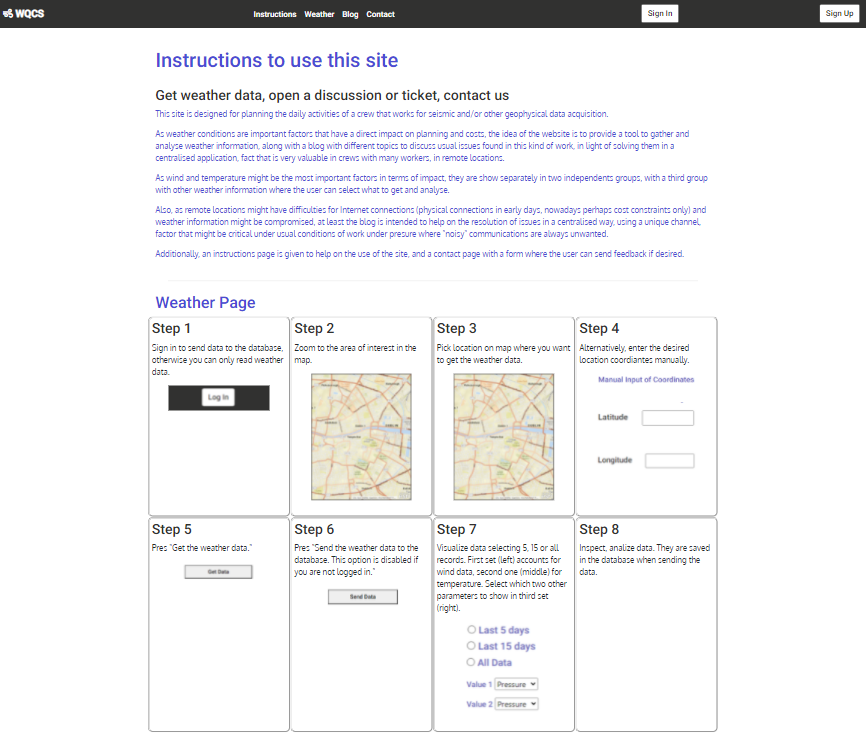
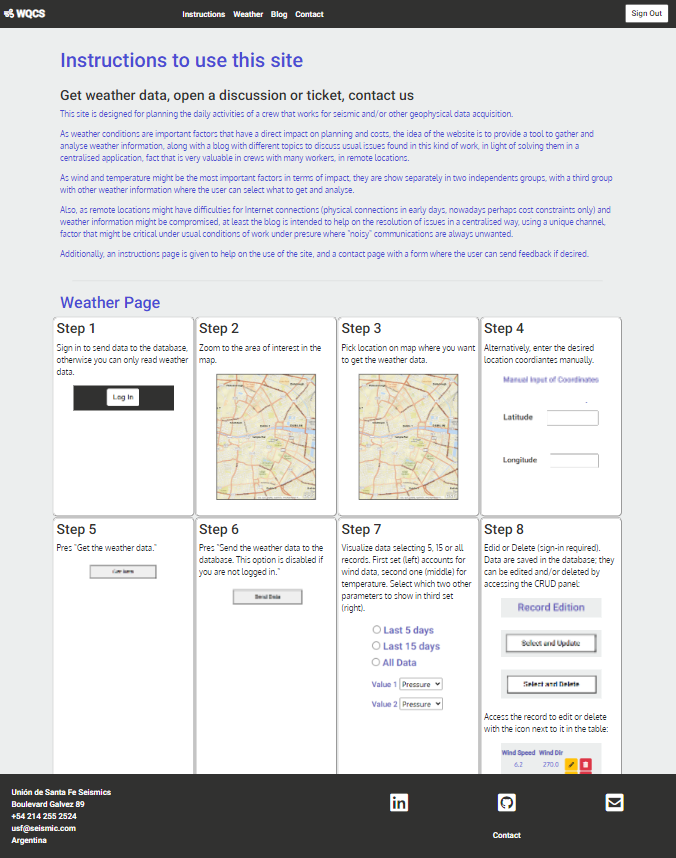
Update images of features after adding CRUD functionalities

diff --git a/README.md b/README.md
@@ -505,6 +505,8 @@ It can be found in the Weather page and allows users to collect and analyse weat
 
 ![Weather App Image](docs/features-and-evidence/weather-page.PNG)
 
+![Weather App Image](docs/features-and-evidence/weather-page-bottom.PNG)
+
 </details>
 <br>
 
@@ -585,17 +587,16 @@ After collection of requirements and development, the following features were ad
 
 Besides just reading the database, the site includes options to create, update and delete records from the database. A CRUD panel is added between the panel to select the data to read and show, and the tables. In addition, users can also delete their own comments. 
 
+<details>
+    <summary>Select and Edit Option Image</summary>
+
+![CRUD Panel, Edit Data Image](docs/features-and-evidence/crud-panel-edit-data-showing-buttons.jpg)
+</details>
 
 <details>
     <summary>Delete Option Image</summary>
 
 ![CRUD Panel, Delete Data Image](docs/features-and-evidence/crud-panel-delete-data-showing-buttons.jpg)
-</details>
-
-<details>
-    <summary>Select and Edit Option Image</summary>
-
-![CRUD Panel, Edit Data Image](docs/features-and-evidence/crud-panel-edit-data-showing-buttons.jpg)
 </details>
 
 <details>
@@ -610,39 +611,9 @@ Besides just reading the database, the site includes options to create, update a
 To improve the awareness of the tasks being performed by users, they are informed with alert messages when a record is created, updated or deleted. This kind of messages are also included in the CRUD panel, so users are aware of their activities at all times. Thanks to Django messages framework, alerts are also given when signing in, up or out. 
 
 <details>
-    <summary>Alert before Deleting a Record Image</summary>
-
-![Alert before Deleting a Record Image](docs/features-and-evidence/alert-before-deleting.PNG)
-</details>
-
-<details>
-    <summary>Alert before Creating a Record Image</summary>
-
-![Alert before Creating a Record Image](docs/features-and-evidence/alert-create-a-record.PNG)
-</details>
-
-<details>
-    <summary>Alert in CRUD Panel for Deletion Image</summary>
-
-![Alert in CRUD Panel for Deletion Image](docs/features-and-evidence/alert-in-crud-panel-data-ready-for-deletion.PNG)
-</details>
-
-<details>
-    <summary>Alert in CRUD Panel for Editing Image</summary>
-
-![Alert in CRUD Panel for Editing Image](docs/features-and-evidence/alert-in-crud-panel-data-ready-for-edition.PNG)
-</details>
-
-<details>
     <summary>Alert for Record Created Image</summary>
 
 ![Alert for Record Created Image](docs/features-and-evidence/alert-message-record-created.PNG)
-</details>
-
-<details>
-    <summary>CAlert before Deleting a Record Image</summary>
-
-![Alert before Deleting a Record Image](docs/features-and-evidence/alert-prevent-sending-empty-record.PNG)
 </details>
 
 <details>
@@ -652,15 +623,57 @@ To improve the awareness of the tasks being performed by users, they are informe
 </details>
 
 <details>
-    <summary>Alert for Record Deleted Image</summary>
+    <summary>Alert before Creating a Record Image</summary>
 
-![Alert for Record Deleted Image](docs/features-and-evidence/alert-record-deleted.PNG)
+![Alert before Creating a Record Image](docs/features-and-evidence/alert-create-a-record.PNG)
+</details>
+
+<details>
+    <summary>Alert for Record Reading Image</summary>
+
+![Alert for Record Reading Image](docs/features-and-evidence/alert-record-read.PNG)
+</details>
+
+<details>
+    <summary>Alert in CRUD Panel for Editing Image</summary>
+
+![Alert in CRUD Panel for Editing Image](docs/features-and-evidence/alert-in-crud-panel-data-ready-for-edition.PNG)
 </details>
 
 <details>
     <summary>Alert for Record Updated Image</summary>
 
 ![Alert for Record Updated Image](docs/features-and-evidence/alert-record-updated.PNG)
+</details>
+
+<details>
+    <summary>Alert in CRUD Panel for Deletion Image</summary>
+
+![Alert in CRUD Panel for Deletion Image](docs/features-and-evidence/alert-in-crud-panel-data-ready-for-deletion.PNG)
+</details>
+
+<details>
+    <summary>Alert for Record Deleted Image</summary>
+
+![Alert for Record Deleted Image](docs/features-and-evidence/alert-record-deleted.PNG)
+</details>
+
+<details>
+    <summary>Alert before Deleting a Record Image</summary>
+
+![Alert before Deleting a Record Image](docs/features-and-evidence/alert-before-deleting.PNG)
+</details>
+
+<details>
+    <summary>Alert before Deleting a Record Image</summary>
+
+![Alert before Deleting a Record Image](docs/features-and-evidence/alert-before-deleting-2.PNG)
+</details>
+
+<details>
+    <summary>Alert Preventing Empty Field Image</summary>
+
+![Alert Preventing Empty Field Image](docs/features-and-evidence/alert-prevent-sending-empty-record.PNG)
 </details>
 
 <br>
